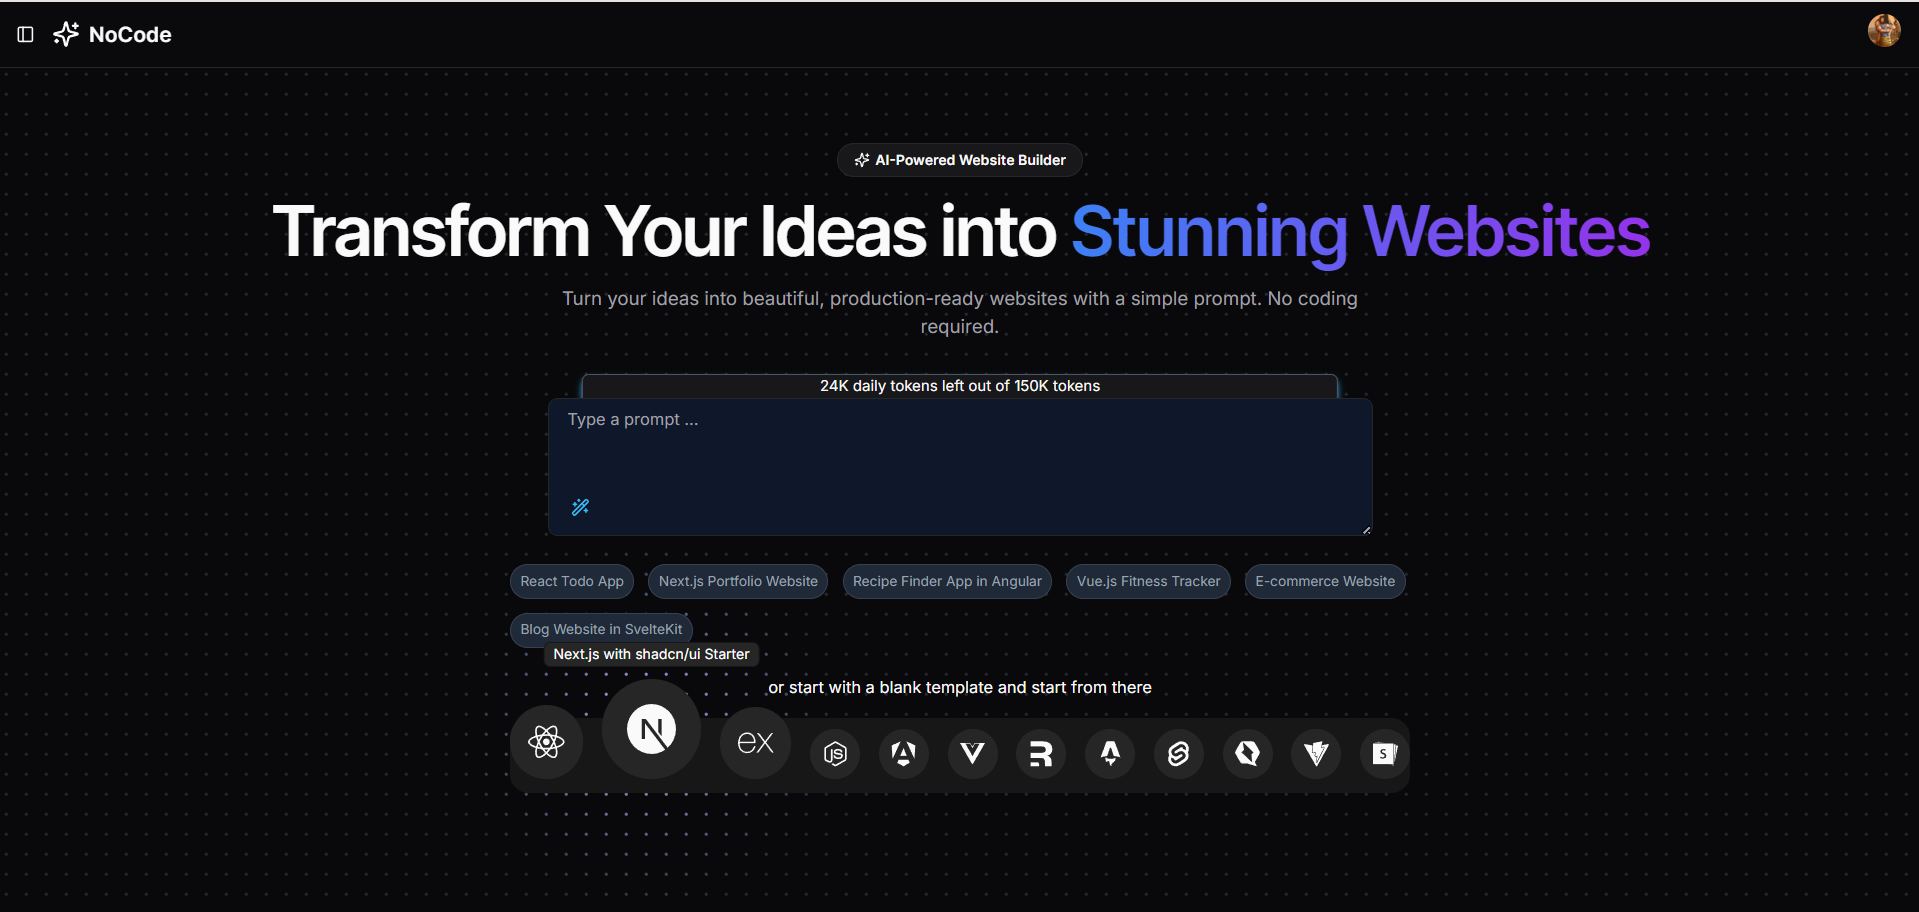
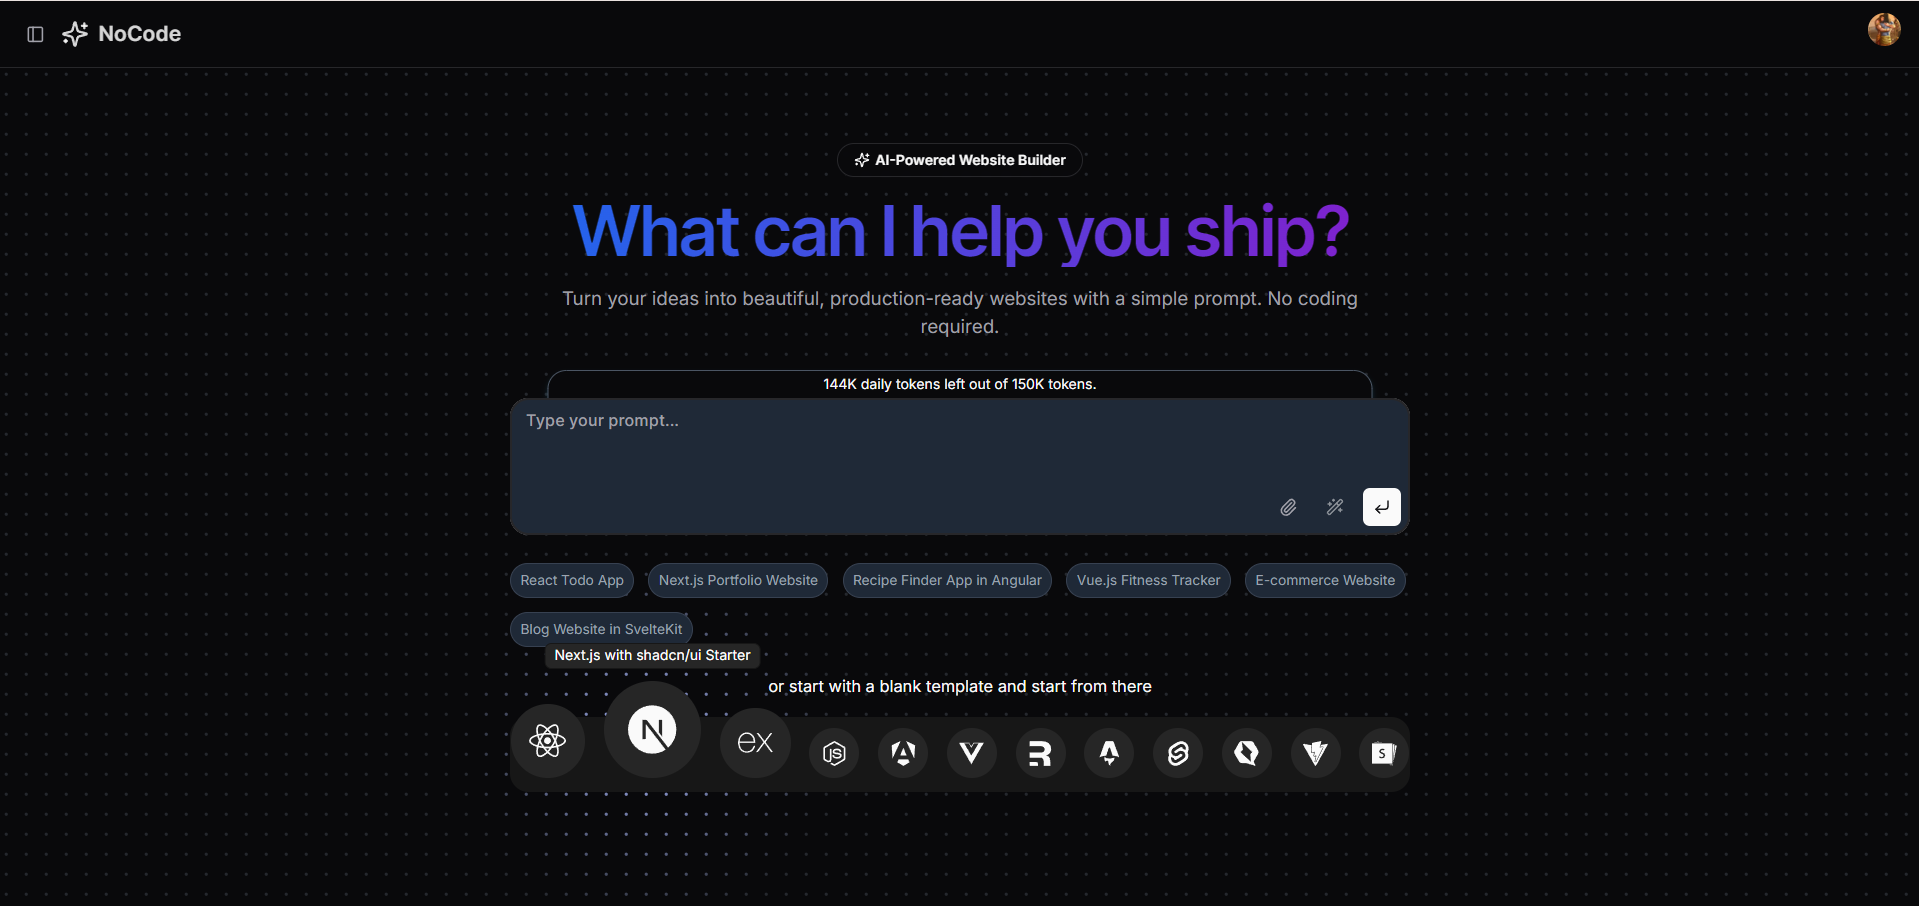
Fixes colour glow

diff --git a/client/src/components/ChatInput.tsx b/client/src/components/ChatInput.tsx
@@ -55,7 +55,7 @@ const rainbowVariants = {
     ],
     transition: {
       duration: 2,
-      repeat: Number.POSITIVE_INFINITY,
+      repeat: Infinity,
       ease: "linear",
     },
   },
@@ -69,8 +69,7 @@ export const ChatInput = memo(
     setInput,
     placeholder,
     handleSubmit,
-  }: // rows = 5,
-  {
+  }: {
     placeholder: string;
     handleSubmit: (input: string) => void;
     input: string;
@@ -79,7 +78,6 @@ export const ChatInput = memo(
     reload?: () => Promise<string | null | undefined>;
     stop?: () => void;
     error?: Error | undefined;
-    rows?: number;
   }) => {
     const textareaRef = useRef<HTMLTextAreaElement>(null);
     const { authenticatedFetch } = useFetch();
@@ -308,7 +306,7 @@ export const ChatInput = memo(
         {/* Input */}
         <div
           className={cn(
-            "relative rounded-2xl overflow-hidden transition-all",
+            "relative rounded-2xl transition-all",
             isDragging && "ring-2 ring-primary"
           )}
           onDragOver={handleDragOver}
@@ -326,8 +324,7 @@ export const ChatInput = memo(
               className={cn(
                 "relative rounded-2xl whitespace-pre-wrap bg-gray-50 dark:bg-gray-800 border-2",
                 "transition-shadow duration-300",
-                "focus:ring-2 focus:ring-offset-2 focus:ring-offset-background",
-                "text-cyan-700 font-medium dark:text-white resize-none"
+                "focus:ring-2 focus:ring-offset-2 focus:ring-offset-background font-medium"
               )}
               placeholder={placeholder}
               value={input}
